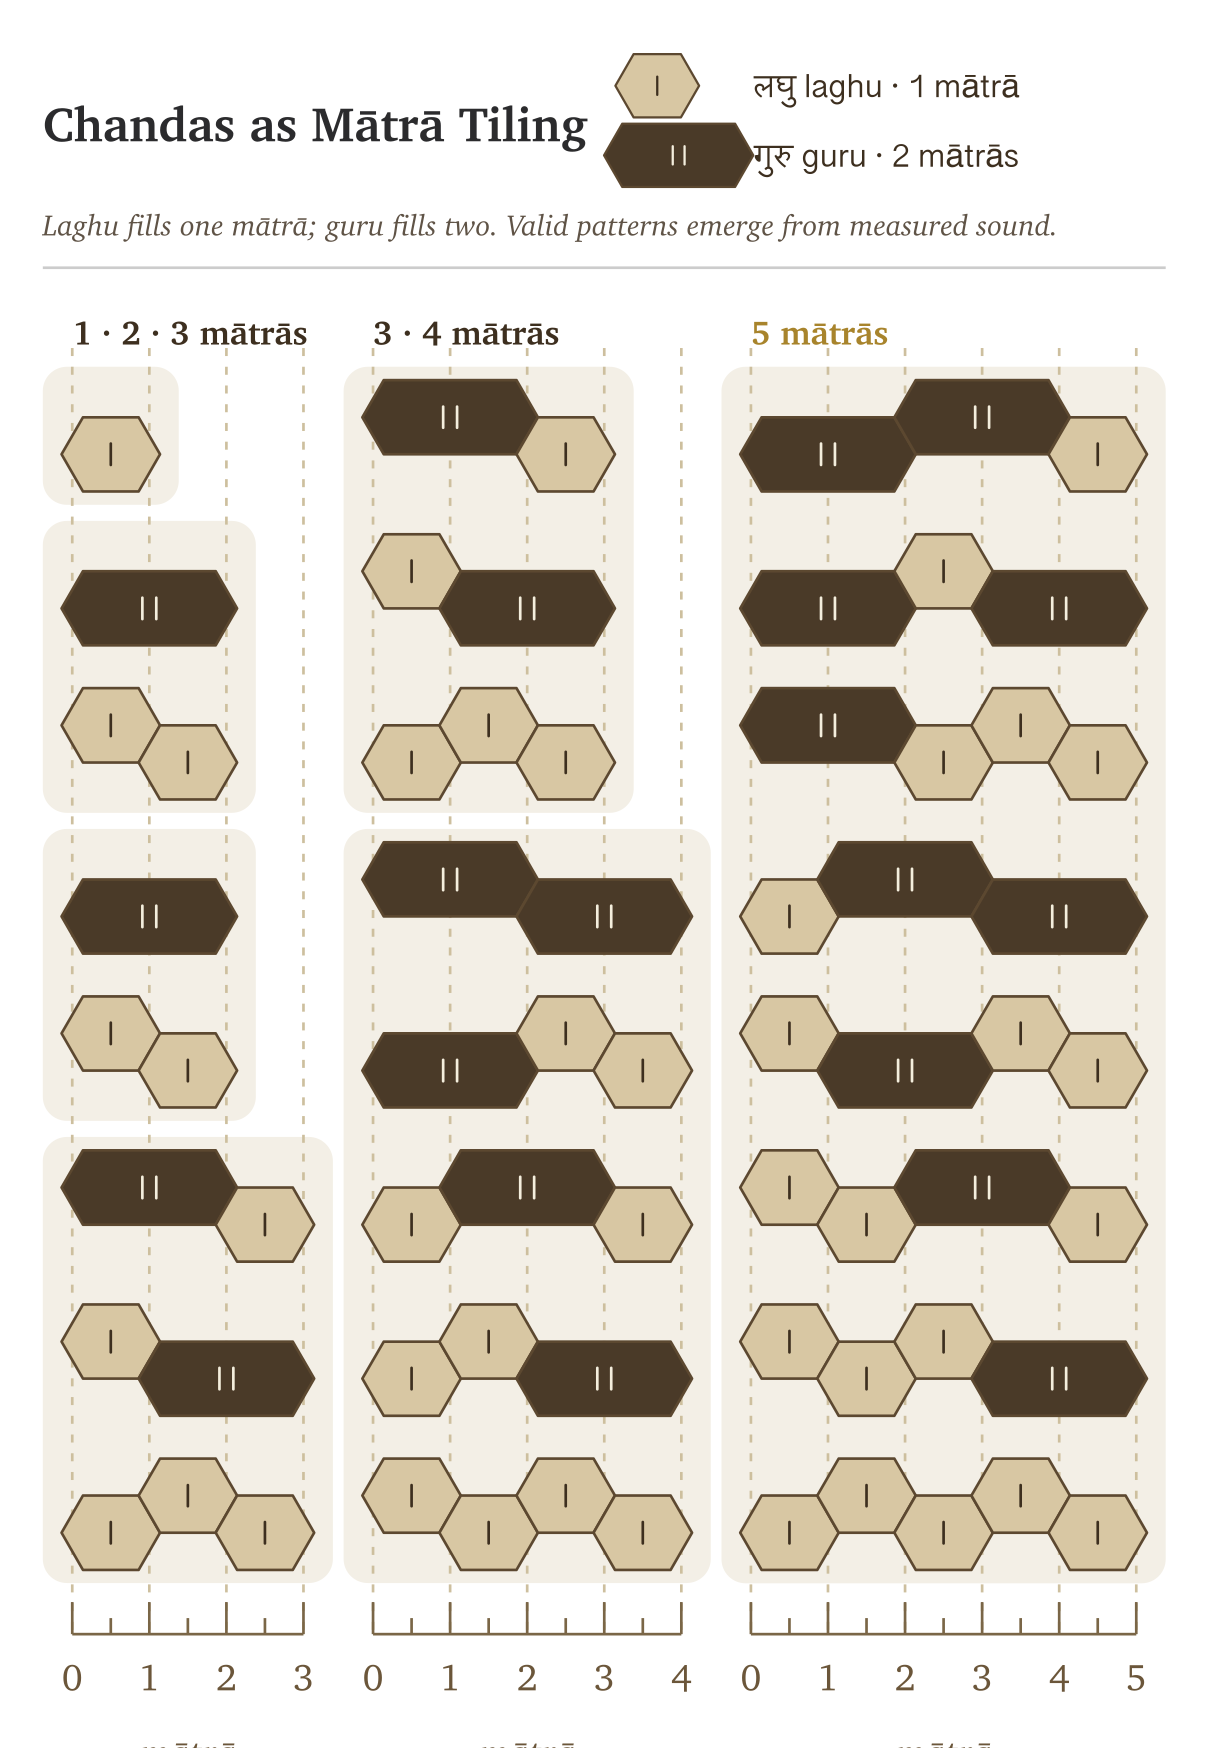
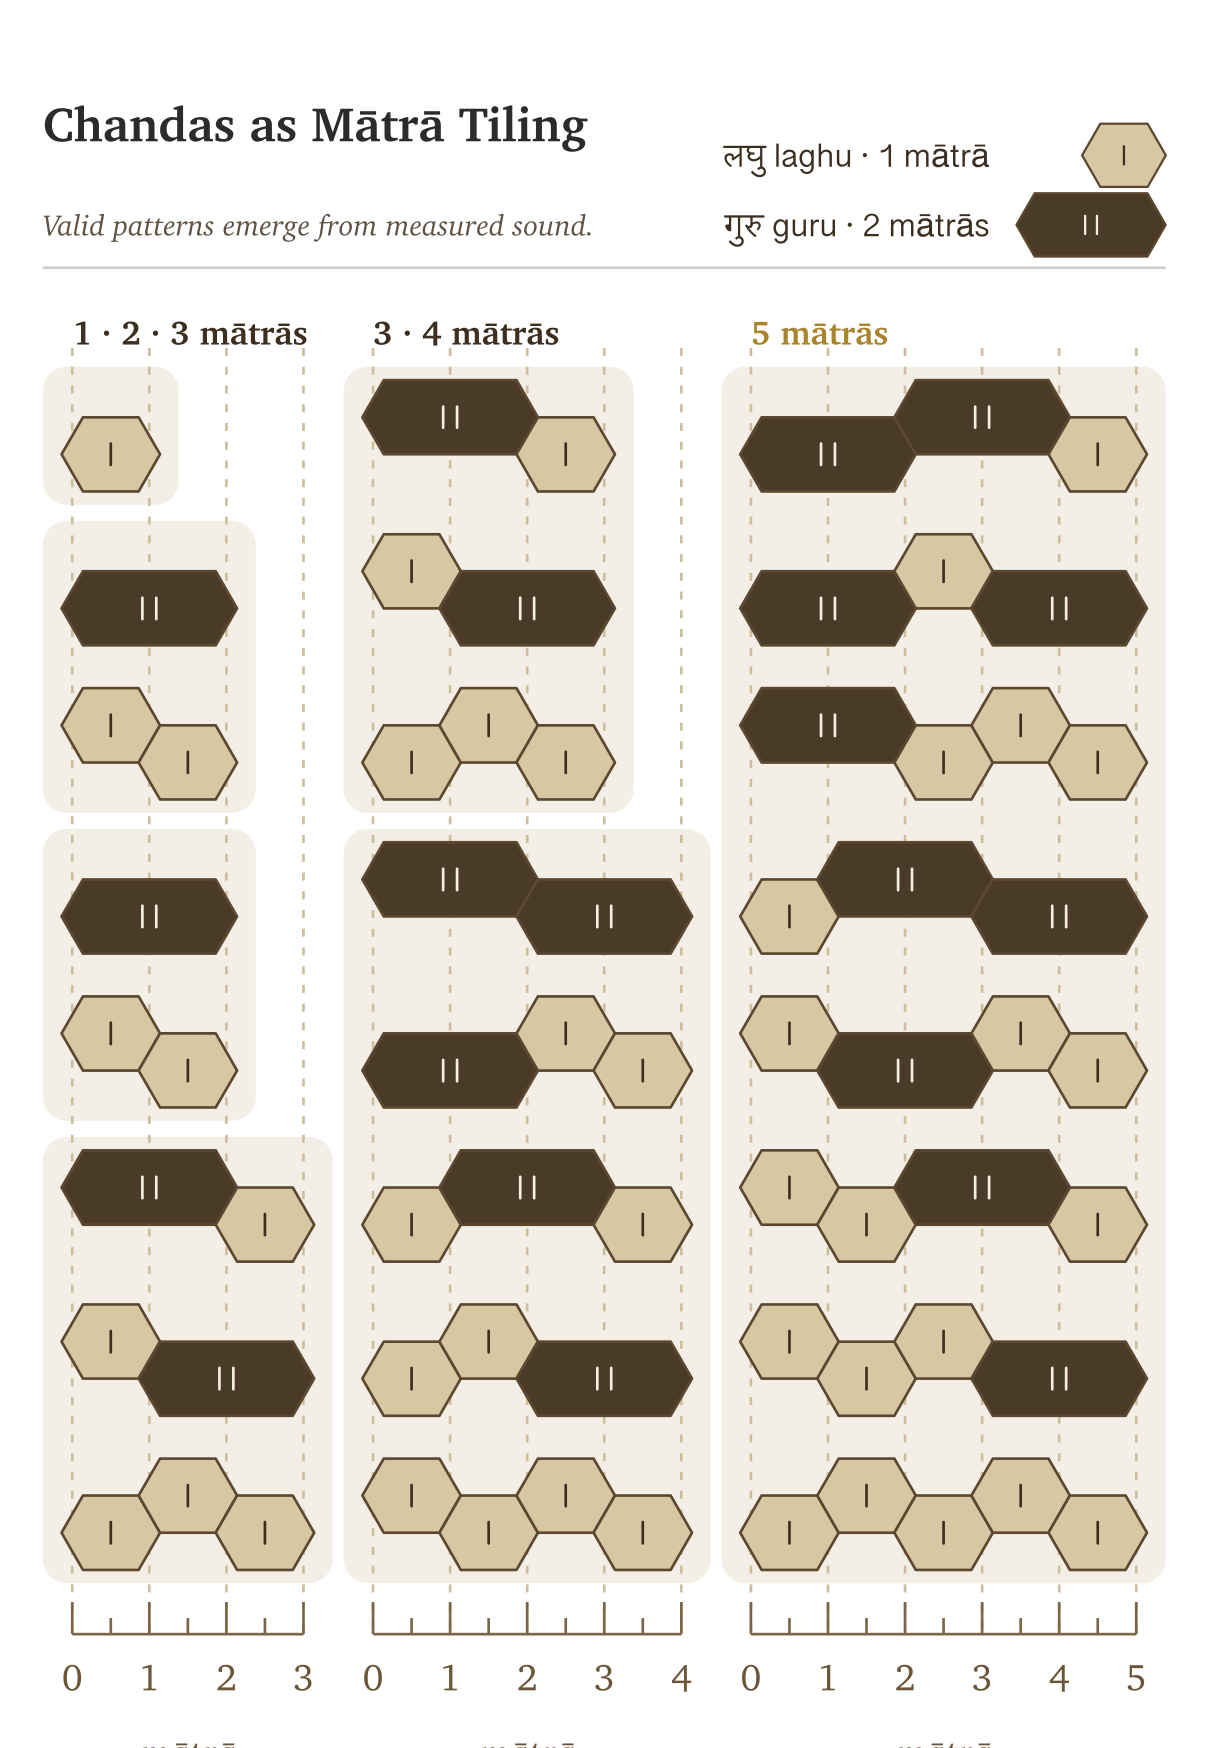
Ch14 mātrā tiles: shorten subtitle to one sentence; right-align legend above the rule
Drop the first subtitle sentence ('Laghu fills one mātrā; guru fills two.'), freeing the right side. Legend hexes are now right-aligned (right edges flush) with right-justified Devanagari+IAST labels beside them, both rows tucked just above the title-band rule.

Changed region(s): [[0.0612, 0.0309, 0.9785, 0.1545], [0.7339, 0.0309, 0.8562, 0.0927]]

diff --git a/writing/books/atomicSanskrit/figures/calibration/matra_tiles_combined.py b/writing/books/atomicSanskrit/figures/calibration/matra_tiles_combined.py
@@ -27,7 +27,7 @@ BUILD_DIR = Path(__file__).resolve().parent
 
 sys.path.insert(0, str(BUILD_DIR))
 from matra_tiles import (  # noqa: E402
-    fillings, render_strip, render_ruler, tile, text,
+    fillings, render_strip, render_ruler, tile, text, width_of,
     BG, GOLD, TEXT, GUIDE, DEV_FONT, FS_IAST,
     MATRA_UNIT, SLANT, STRIP_HALF, ROW_PITCH, RULER_GAP,
 )
@@ -120,21 +120,27 @@ def main() -> None:
     chrome.append(text(MARGIN, MARGIN + 30, "Chandas as Mātrā Tiling", FS_TITLE,
                        fill=TITLE_FILL, anchor="start", weight="700", family=SERIF))
     chrome.append(text(MARGIN, MARGIN + 68,
-                       "Laghu fills one mātrā; guru fills two. Valid patterns emerge from measured sound.",
+                       "Valid patterns emerge from measured sound.",
                        FS_SUB, fill=SUB_FILL, anchor="start", style="italic", family=SERIF))
     chrome.append(f'<line x1="{MARGIN}" y1="{rule_y:.1f}" x2="{canvas_w - MARGIN:.1f}" '
                   f'y2="{rule_y:.1f}" stroke="{RULE}" stroke-width="1"/>')
 
-    # Legend (top-right): laghu + guru, Devanagari + IAST, two rows.
-    sw_x = canvas_w - MARGIN - 190
-    lbl_x = sw_x + 36
-    lr1_y, lr2_y = MARGIN + 16, MARGIN + 42
-    chrome.append(swatch("L", sw_x, lr1_y))
-    chrome.append(text(lbl_x, lr1_y, "लघु laghu · 1 mātrā", FS_IAST, fill=TEXT,
-                       anchor="start", family=DEV_FONT))
-    chrome.append(swatch("G", sw_x + 8, lr2_y))
-    chrome.append(text(lbl_x, lr2_y, "गुरु guru · 2 mātrās", FS_IAST, fill=TEXT,
-                       anchor="start", family=DEV_FONT))
+    # Legend (right, just above the rule): hexes right-aligned, text right-
+    # justified beside them, two rows (laghu, guru) in Devanagari + IAST.
+    sw = 0.85
+
+    def hw(token: str) -> float:                 # half-width of a swatch
+        return (width_of(token) / 2 + SLANT) * sw
+
+    x_r = canvas_w - MARGIN                       # common right edge of the hexes
+    x_t = x_r - 2 * hw("G") - 10                  # common right edge of the text
+    lr1_y, lr2_y = rule_y - 42, rule_y - 16
+    chrome.append(swatch("L", x_r - hw("L"), lr1_y, sw))
+    chrome.append(text(x_t, lr1_y, "लघु laghu · 1 mātrā", FS_IAST, fill=TEXT,
+                       anchor="end", family=DEV_FONT))
+    chrome.append(swatch("G", x_r - hw("G"), lr2_y, sw))
+    chrome.append(text(x_t, lr2_y, "गुरु guru · 2 mātrās", FS_IAST, fill=TEXT,
+                       anchor="end", family=DEV_FONT))
 
     body = "\n".join(backers + gridlines + strips + chrome)
     height_in = canvas_h / canvas_w * WIDTH_IN
